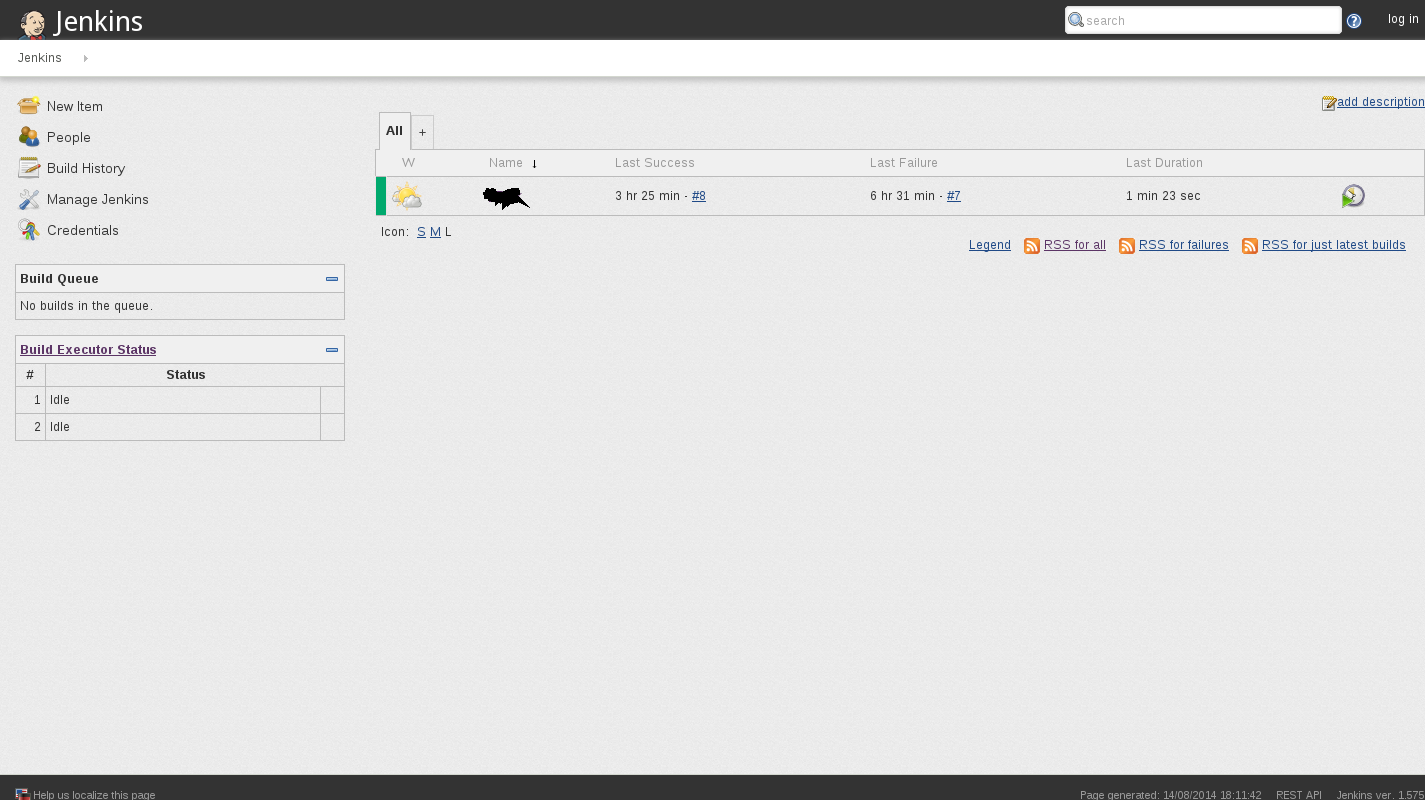
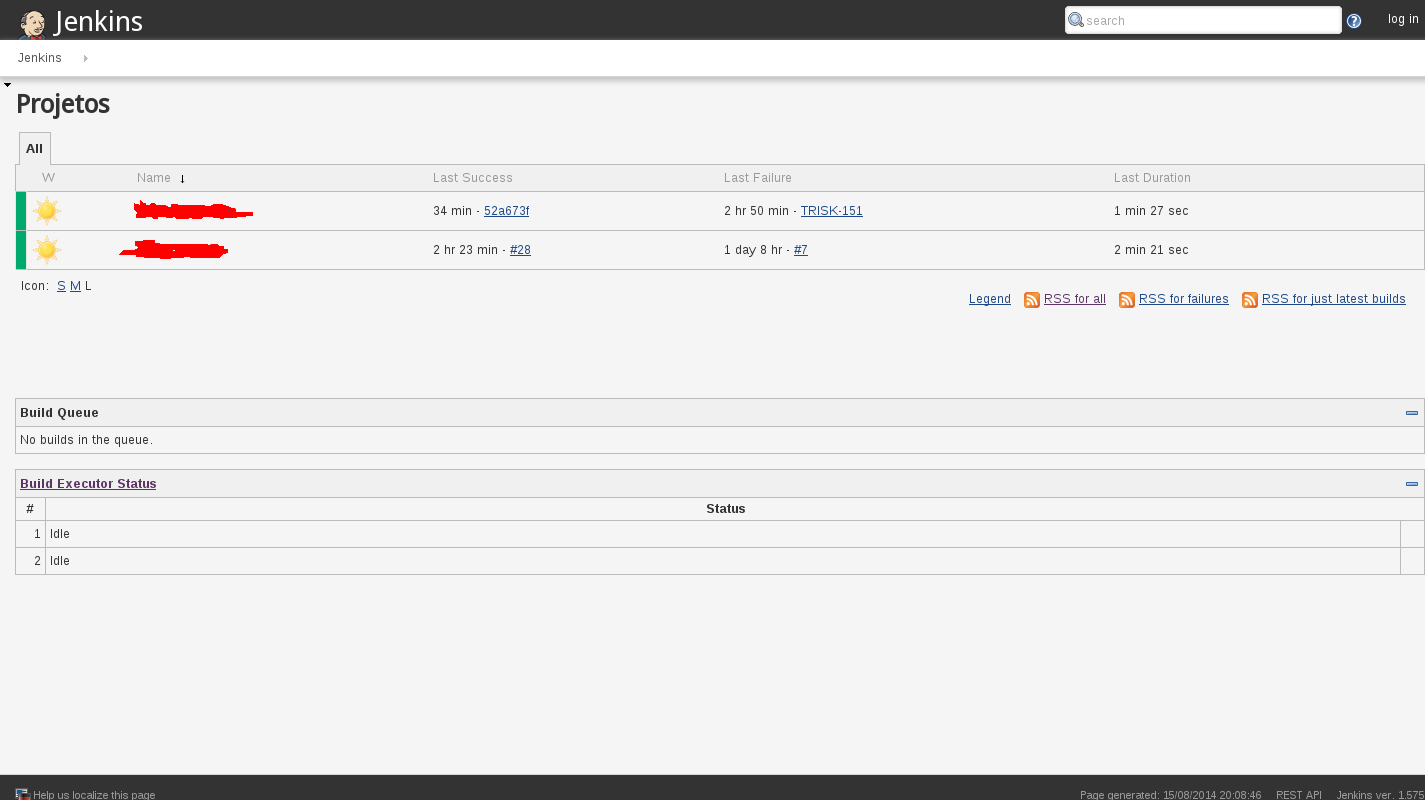
after image updated, readme updated

diff --git a/README.md b/README.md
@@ -4,6 +4,14 @@ CSS and JS to implement a Rackspace Canon based as a theme for [Jenkins CI](http
 
 Based and tested on Jenkins 1.57X.
 
+## What is diferent from default theme?
+
+- Various colors and fonts (by Rackspace)
+- Project build status marker (by Rackspace)
+- Click on Jenkins logo redirect to home
+- Side panel placed below the main panel (menu still acessible through navigation bar)
+- Jenkins logo font
+
 ### Before
 
 ![Before](JenkinsBefore.png "Before")
